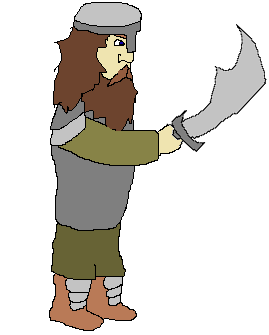
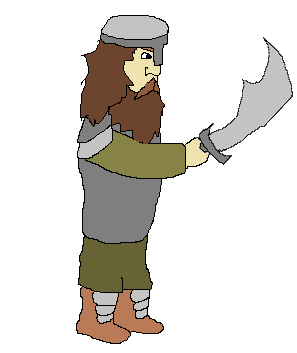
fixed warrior.attack()
resized images and changed attack rate

Changed region(s): [[0.1784, 0.0, 1.0, 1.0], [0.8625, 0.0597, 0.8922, 0.0896], [0.3271, 0.2388, 0.3569, 0.2687]]

diff --git a/README.md b/README.md
@@ -1,4 +1,6 @@
 Medieval
 ====
 
-Medieval game with images made in MS Paint
+Medieval RPG with images drawn in MS Paint
+
+Simply compile and run the source with the Processing IDE
